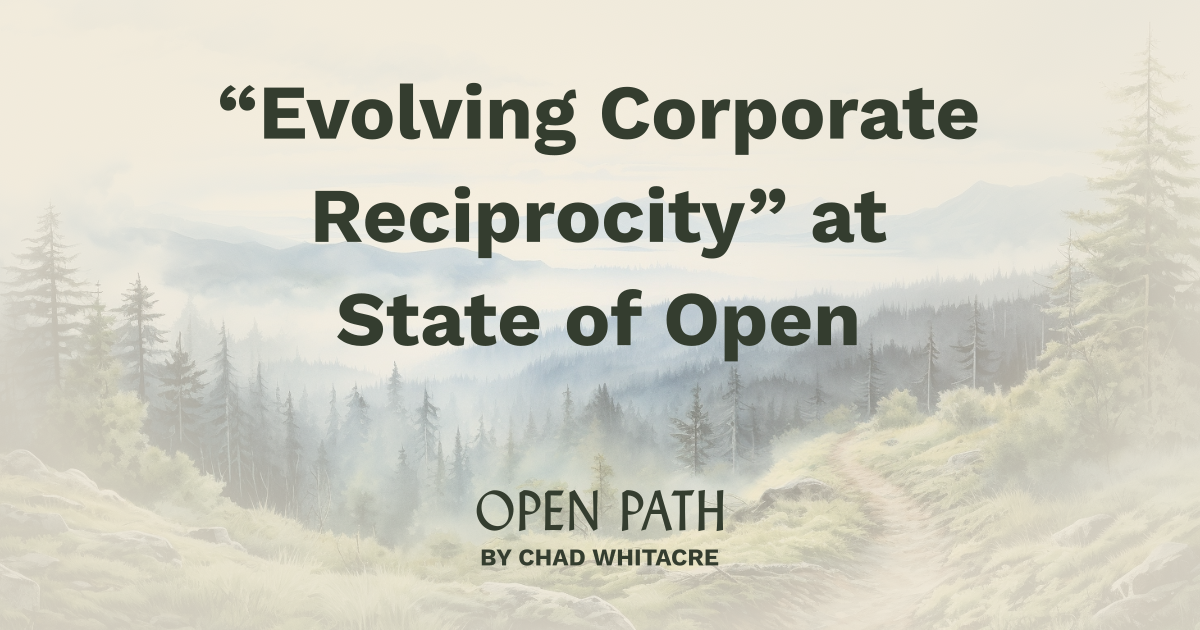
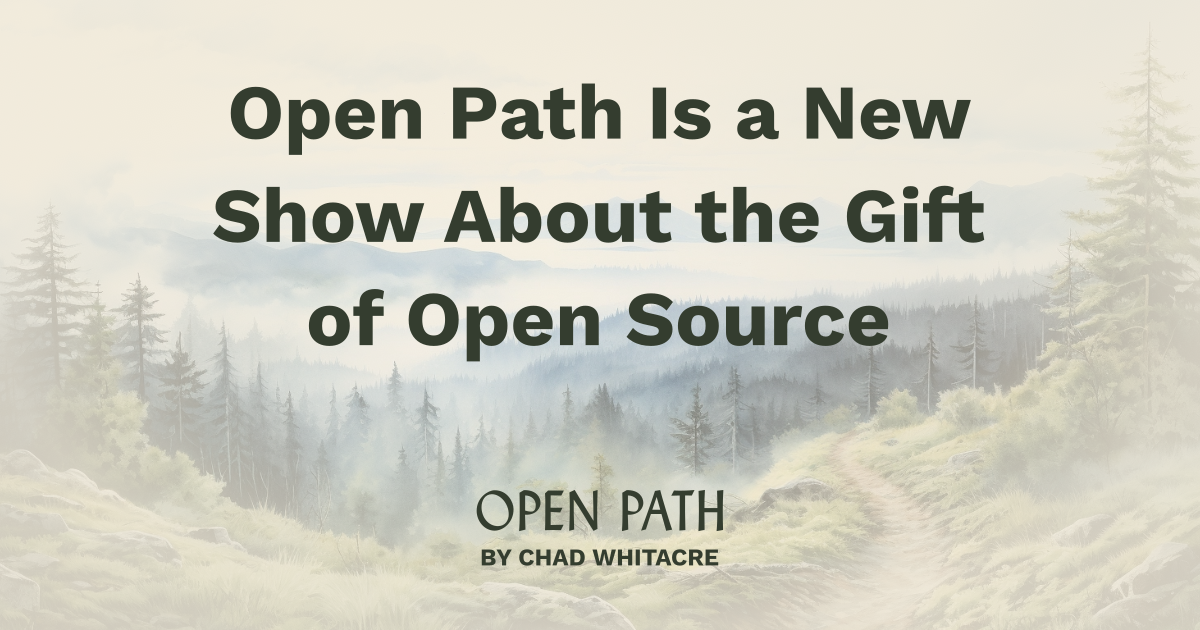
backport open-path-is-a-new-show-about-the-gift-of-open-source

Changed region(s): [[0.185, 0.1206, 0.8325, 0.2413], [0.1542, 0.2714, 0.8325, 0.4222], [0.2467, 0.4524, 0.74, 0.573]]

diff --git a/_posts/2025-05-01-open-path-is-a-new-show-about-the-gift-of-open-source.md b/_posts/2025-05-01-open-path-is-a-new-show-about-the-gift-of-open-source.md
@@ -1,0 +1,10 @@
+---
+title: Open Path Is a New Show About the Gift of Open Source
+excerpt: Open Source is a gift that's greater than we realize. Truly accepting it could heal the world. That's the premise of my new show, Open Path, which launched today on Syntax.
+canonical_name: the Open Source Pledge blog
+canonical_url: https://opensourcepledge.com/blog/open-path-is-a-new-show-about-the-gift-of-open-source/
+---
+
+Open Source is a gift that's greater than we realize. Truly accepting it could heal the world. That's the premise of my new show, [Open Path](https://openpath.quest/), which launched today on [Syntax](https://syntax.fm/). The first episode is pretty personal, about how I came to be leading the Open Source Pledge. I'm hoping future episodes will amplify our attempts to grow the Pledge. Want to be part of the story? [Join our Slack](https://join.slack.com/t/opensourcepledge/shared_invite/zt-33qxp7jsz-CJeYxDBnc2Y3FuZvGCHLMw).
+
+{% include youtube.html video_id="g3DwMGwalrU" %}
